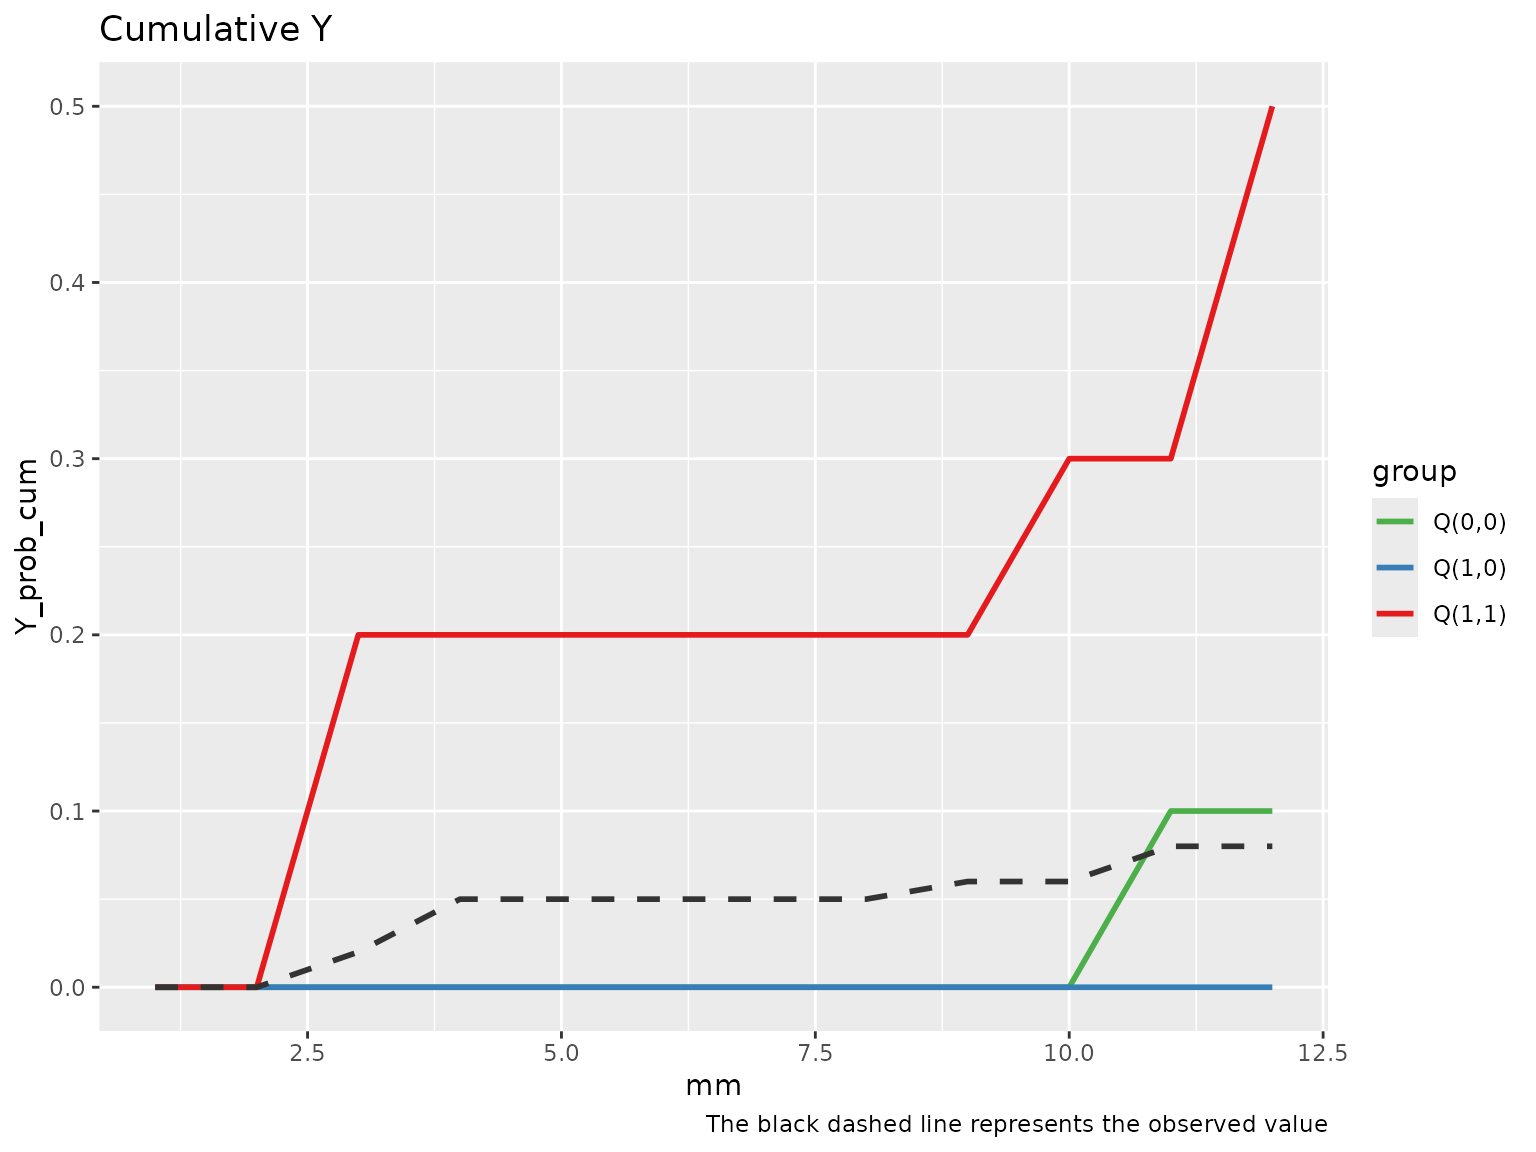
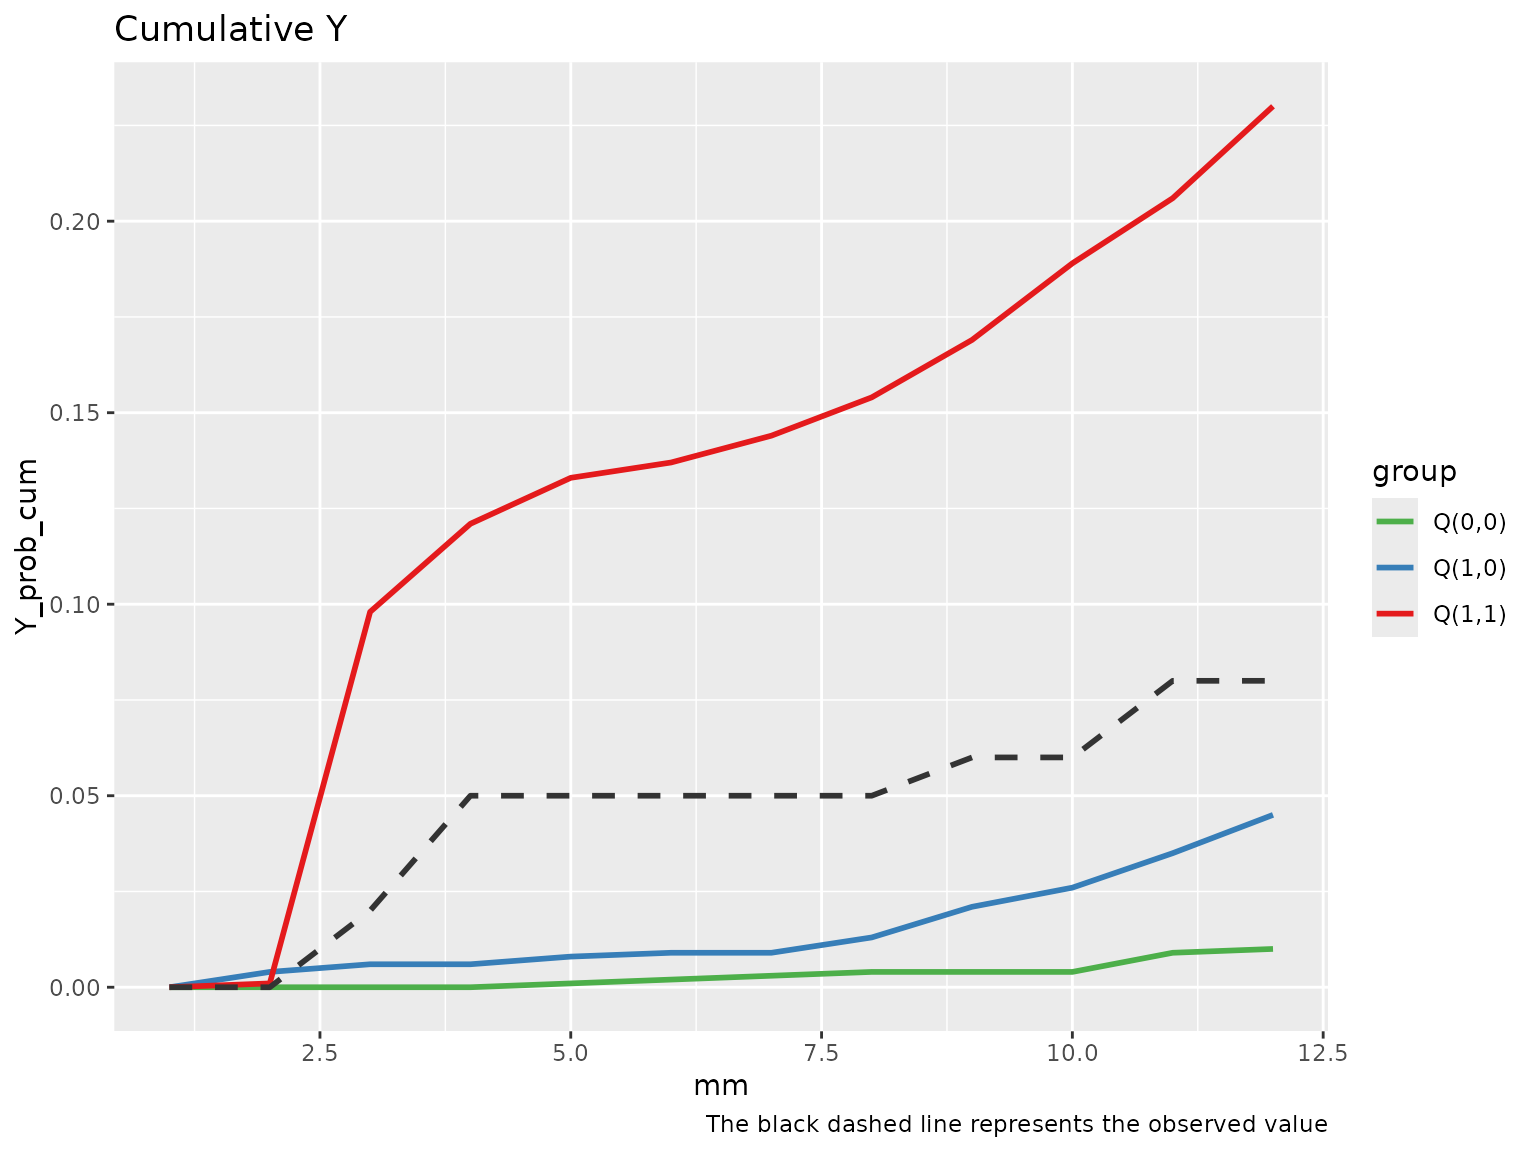
Deploying to gh-pages from @ causalepi/tvmedg@91e69b1b6bb21d837b20969830a61b0240be2b0c 🚀

diff --git a/articles/single_mediator.html b/articles/single_mediator.html
@@ -164,17 +164,17 @@ using 1000 Monte Carlo samples.</p>
 <span>                   sp_df <span class="op">=</span> <span class="fu"><a href="https://rdrr.io/r/base/c.html" class="external-link">c</a></span><span class="op">(</span><span class="fl">3</span><span class="op">)</span>,</span>
 <span>                   followup <span class="op">=</span> <span class="fl">12</span>,</span>
 <span>                   seed <span class="op">=</span> <span class="fl">123</span>,</span>
-<span>                   montecarlo <span class="op">=</span> <span class="fl">10</span>,</span>
+<span>                   montecarlo <span class="op">=</span> <span class="fl">1000</span>,</span>
 <span>                   boot <span class="op">=</span> <span class="cn">F</span>,</span>
 <span>                   parallel <span class="op">=</span> <span class="cn">TRUE</span><span class="op">)</span></span>
-<span><span class="co">#&gt; Q(a,a): 0.5 </span></span>
-<span><span class="co">#&gt; Q(a,a*): 0 </span></span>
-<span><span class="co">#&gt; Q(a*,a*): 0.1 </span></span>
-<span><span class="co">#&gt; Indirect (rIE): 0.5 </span></span>
-<span><span class="co">#&gt; Direct (rDE): -0.1 </span></span>
-<span><span class="co">#&gt; Total (rTE): 0.4 </span></span>
-<span><span class="co">#&gt; Proportional explain: 1.25 </span></span>
-<span><span class="co">#&gt; Total time elapsed: 5.188118 secs</span></span>
+<span><span class="co">#&gt; Q(a,a): 0.23 </span></span>
+<span><span class="co">#&gt; Q(a,a*): 0.045 </span></span>
+<span><span class="co">#&gt; Q(a*,a*): 0.01 </span></span>
+<span><span class="co">#&gt; Indirect (rIE): 0.185 </span></span>
+<span><span class="co">#&gt; Direct (rDE): 0.035 </span></span>
+<span><span class="co">#&gt; Total (rTE): 0.22 </span></span>
+<span><span class="co">#&gt; Proportional explain: 0.841 </span></span>
+<span><span class="co">#&gt; Total time elapsed: 6.367038 mins</span></span>
 <span><span class="fu"><a href="https://rdrr.io/r/parallel/makeCluster.html" class="external-link">stopCluster</a></span><span class="op">(</span><span class="va">cl</span><span class="op">)</span></span></code></pre></div>
 </div>
 <div class="section level3">
@@ -211,19 +211,19 @@ example, we run only 5 bootstrap iterations.</p>
 <span>                      sp_df <span class="op">=</span> <span class="fu"><a href="https://rdrr.io/r/base/c.html" class="external-link">c</a></span><span class="op">(</span><span class="fl">3</span><span class="op">)</span>,</span>
 <span>                      followup <span class="op">=</span> <span class="fl">12</span>,</span>
 <span>                      seed <span class="op">=</span> <span class="fl">123</span>,</span>
-<span>                      montecarlo <span class="op">=</span> <span class="fl">10</span>,</span>
+<span>                      montecarlo <span class="op">=</span> <span class="fl">1000</span>,</span>
 <span>                      boot <span class="op">=</span> <span class="cn">T</span>,</span>
 <span>                      nboot <span class="op">=</span> <span class="fl">5</span>,</span>
 <span>                      ci <span class="op">=</span> <span class="fl">.95</span>,</span>
 <span>                     parallel <span class="op">=</span> <span class="cn">TRUE</span><span class="op">)</span></span>
-<span><span class="co">#&gt; Q(a,a): 0.7 (0.06, 1) </span></span>
-<span><span class="co">#&gt; Q(a,a*): 0.6 (0.01, 1) </span></span>
-<span><span class="co">#&gt; Q(a*,a*): 0 (0, 0.55) </span></span>
-<span><span class="co">#&gt; Indirect (rIE): 0.1 (0, 0.73) </span></span>
-<span><span class="co">#&gt; Direct (rDE): 0.6 (-0.54, 1) </span></span>
-<span><span class="co">#&gt; Total (rTE): 0.7 (-0.48, 1) </span></span>
-<span><span class="co">#&gt; Proportional explain: 0.143 (0, 0.917) </span></span>
-<span><span class="co">#&gt; Total time elapsed: 20.93741 secs</span></span>
+<span><span class="co">#&gt; Q(a,a): 0.815 (0, 0.921) </span></span>
+<span><span class="co">#&gt; Q(a,a*): 0.791 (0, 0.906) </span></span>
+<span><span class="co">#&gt; Q(a*,a*): 0 (0, 0.27) </span></span>
+<span><span class="co">#&gt; Indirect (rIE): 0.024 (-0.015, 0.138) </span></span>
+<span><span class="co">#&gt; Direct (rDE): 0.791 (-0.267, 0.905) </span></span>
+<span><span class="co">#&gt; Total (rTE): 0.815 (-0.206, 0.92) </span></span>
+<span><span class="co">#&gt; Proportional explain: 0.029 (-0.293, 0.694) </span></span>
+<span><span class="co">#&gt; Total time elapsed: 32.26849 mins</span></span>
 <span><span class="fu"><a href="https://rdrr.io/r/parallel/makeCluster.html" class="external-link">stopCluster</a></span><span class="op">(</span><span class="va">cl</span><span class="op">)</span></span></code></pre></div>
 </div>
 <div class="section level3">

diff --git a/index.html b/index.html
@@ -123,17 +123,17 @@
 <span>       sp_df <span class="op">=</span> <span class="fu"><a href="https://rdrr.io/r/base/c.html" class="external-link">c</a></span><span class="op">(</span><span class="fl">3</span><span class="op">)</span>,</span>
 <span>       followup <span class="op">=</span> <span class="fl">12</span>,</span>
 <span>       seed <span class="op">=</span> <span class="fl">123</span>,</span>
-<span>       montecarlo <span class="op">=</span> <span class="fl">100</span>,</span>
+<span>       montecarlo <span class="op">=</span> <span class="fl">1000</span>,</span>
 <span>       boot <span class="op">=</span> <span class="cn">F</span>,</span>
 <span>       parallel <span class="op">=</span> <span class="cn">TRUE</span><span class="op">)</span></span>
-<span><span class="co">#&gt; Q(a,a): 0.15 </span></span>
-<span><span class="co">#&gt; Q(a,a*): 0.02 </span></span>
-<span><span class="co">#&gt; Q(a*,a*): 0.02 </span></span>
-<span><span class="co">#&gt; Indirect (rIE): 0.13 </span></span>
-<span><span class="co">#&gt; Direct (rDE): 0 </span></span>
-<span><span class="co">#&gt; Total (rTE): 0.13 </span></span>
-<span><span class="co">#&gt; Proportional explain: 1 </span></span>
-<span><span class="co">#&gt; Total time elapsed: 19.29224 secs</span></span>
+<span><span class="co">#&gt; Q(a,a): 0.188 </span></span>
+<span><span class="co">#&gt; Q(a,a*): 0.037 </span></span>
+<span><span class="co">#&gt; Q(a*,a*): 0.008 </span></span>
+<span><span class="co">#&gt; Indirect (rIE): 0.151 </span></span>
+<span><span class="co">#&gt; Direct (rDE): 0.029 </span></span>
+<span><span class="co">#&gt; Total (rTE): 0.18 </span></span>
+<span><span class="co">#&gt; Proportional explain: 0.839 </span></span>
+<span><span class="co">#&gt; Total time elapsed: 5.774524 mins</span></span>
 <span></span>
 <span><span class="fu"><a href="https://rdrr.io/r/parallel/makeCluster.html" class="external-link">stopCluster</a></span><span class="op">(</span><span class="va">cl</span><span class="op">)</span></span></code></pre></div>
 </div>
